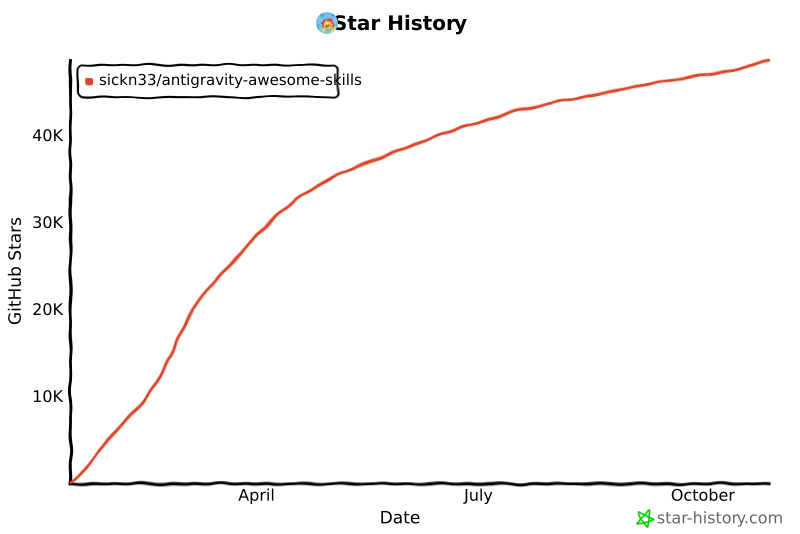
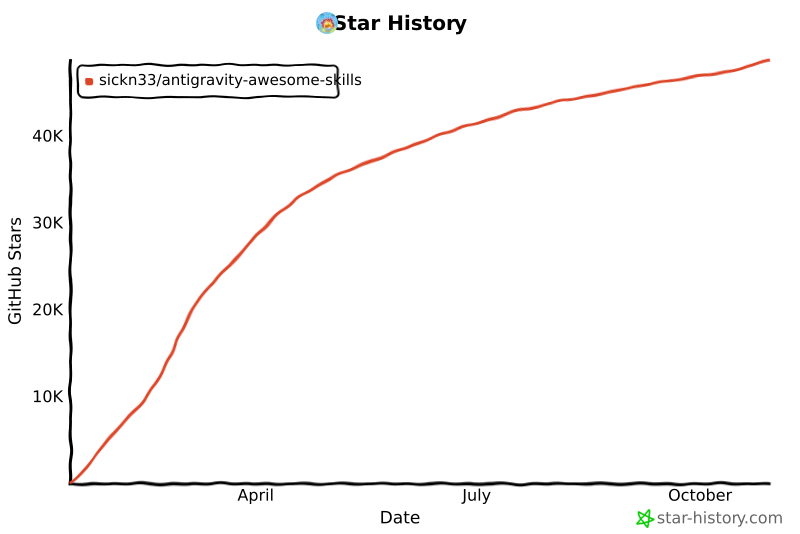
chore: update star history chart

diff --git a/README.md b/README.md
@@ -505,14 +505,14 @@ We officially thank the following contributors for their help in making this rep
 ## Star History
 
 <a href="https://www.star-history.com/#sickn33/antigravity-awesome-skills&type=date&legend=top-left">
- <img alt="Star History Chart" src="https://api.star-history.com/svg?repos=sickn33/antigravity-awesome-skills&type=date&legend=top-left&cache_bust=202610291156" />
+ <img alt="Star History Chart" src="https://api.star-history.com/svg?repos=sickn33/antigravity-awesome-skills&type=date&legend=top-left&cache_bust=202610301150" />
 </a>
 
 <a href="https://www.star-history.com/sickn33/antigravity-awesome-skills">
  <picture>
-   <source media="(prefers-color-scheme: dark)" srcset="https://api.star-history.com/chart?repos=sickn33/antigravity-awesome-skills&style=landscape1&theme=dark&cache_bust=202610291156" />
-   <source media="(prefers-color-scheme: light)" srcset="https://api.star-history.com/chart?repos=sickn33/antigravity-awesome-skills&style=landscape1&cache_bust=202610291156" />
-   <img alt="Star History Chart" src="https://api.star-history.com/chart?repos=sickn33/antigravity-awesome-skills&style=landscape1&cache_bust=202610291156" />
+   <source media="(prefers-color-scheme: dark)" srcset="https://api.star-history.com/chart?repos=sickn33/antigravity-awesome-skills&style=landscape1&theme=dark&cache_bust=202610301150" />
+   <source media="(prefers-color-scheme: light)" srcset="https://api.star-history.com/chart?repos=sickn33/antigravity-awesome-skills&style=landscape1&cache_bust=202610301150" />
+   <img alt="Star History Chart" src="https://api.star-history.com/chart?repos=sickn33/antigravity-awesome-skills&style=landscape1&cache_bust=202610301150" />
  </picture>
 </a>
 
